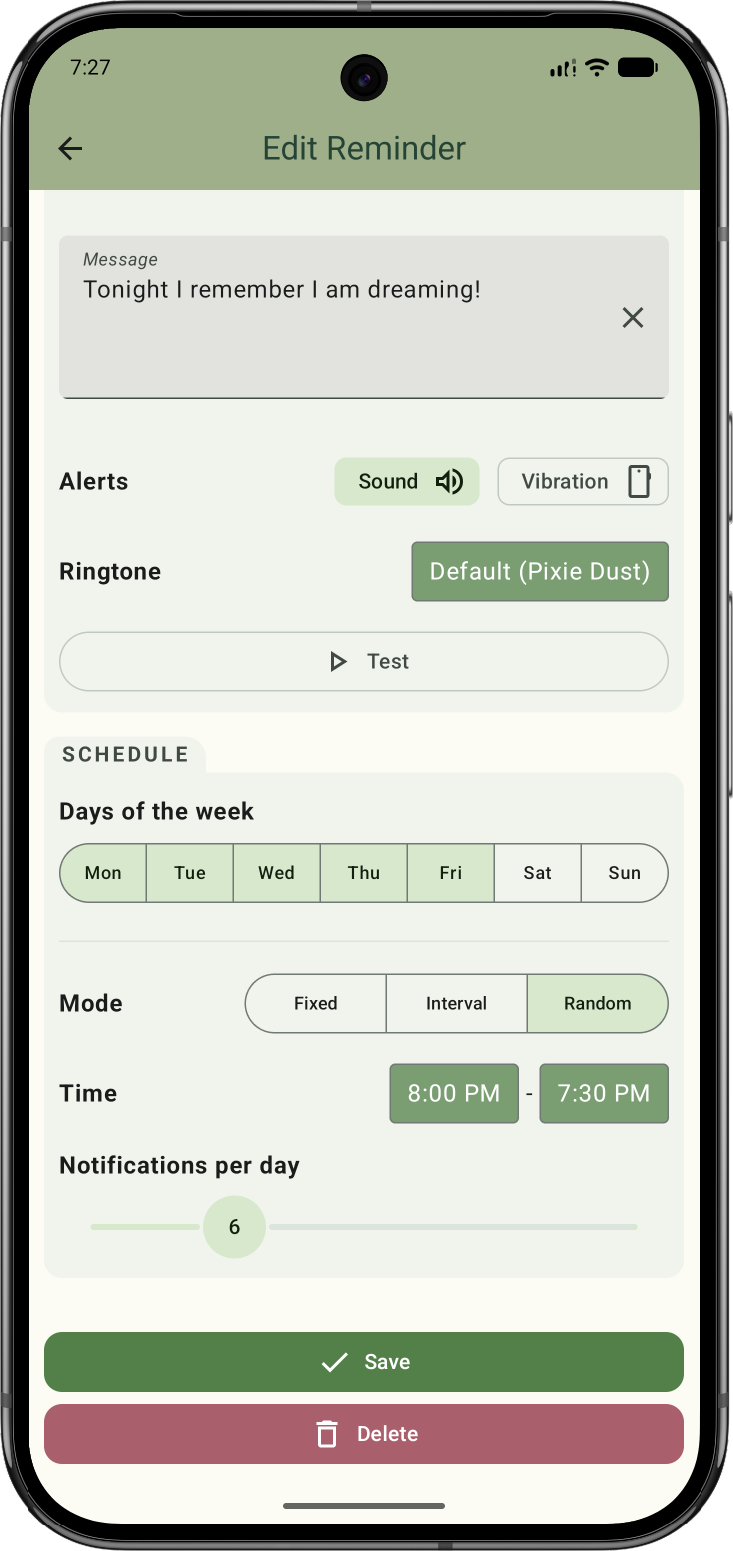
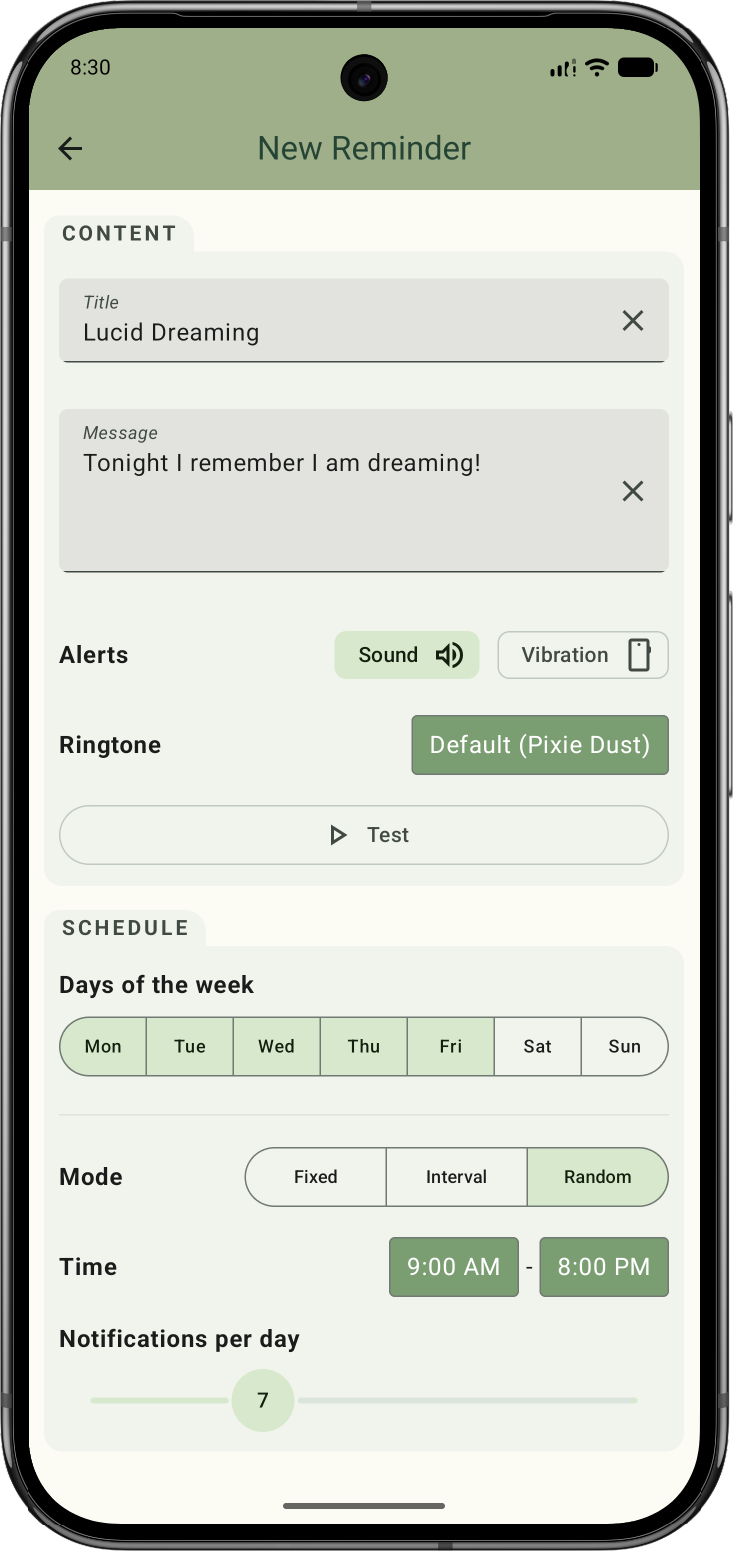
feat: add Dark Theme (#19)
* Add a dark theme
* Update fastlane screenshots
* Bump version to 1.4.0

diff --git a/app/src/main/java/cc/polysfaer/stochapop/ui/theme/Color.kt b/app/src/main/java/cc/polysfaer/stochapop/ui/theme/Color.kt
@@ -3,16 +3,16 @@ package cc.polysfaer.stochapop.ui.theme
 import androidx.compose.ui.graphics.Color
 
 val ForestGreenPrimary = Color(0xFF538049)
-val TerraCottaTertiary = Color(0xFFAA5F6C)
+val TerracottaTertiary = Color(0xFFAA5F6C)
 
 val ErrorRed = Color(0xFFB43D3D)
 val SpaceCrabbyRed = Color(0xFFE76145)
 
 // -------------------------------------------------------
 
-val DarkSalmon = Color(0xFFE9967A) //
-val OffWhiteUpper = Color(0xFFE8E4E4)
-val SplashScreenSand = Color(0xFFE3C9A3)
+//val DarkSalmon = Color(0xFFE9967A) //
+//val OffWhiteUpper = Color(0xFFE8E4E4)
+//val SplashScreenSand = Color(0xFFE3C9A3)
 val SplashScreenSandLight = Color(0xFFFCFCF5) // 0xFFFBFBF8
 
 // -------------------------------------------------------
@@ -27,7 +27,7 @@ val onSecondaryLight = Color(0xFFFFFFFF)
 val secondaryContainerLight = Color(0xFFD7E8CC)
 val onSecondaryContainerLight = Color(0xFF121F0E)
 
-val tertiaryLight = TerraCottaTertiary
+val tertiaryLight = TerracottaTertiary
 val onTertiaryLight = Color(0xFFFFFFFF)
 val tertiaryContainerLight = Color(0xFFFFDBD1)
 val onTertiaryContainerLight = Color(0xFF3B0900)
@@ -59,14 +59,14 @@ val surfaceContainerHighestLight = Color(0xFFE2E3DF)
 
 // ------------------------------------------------------------------------------------------------
 
-val primaryDark = Color(0xFF3CAC62)
-val onPrimaryDark = Color(0xFF00391C)
-val primaryContainerDark = Color(0xFF195238)
-val onPrimaryContainerDark = Color(0xFFB0D3BD)
+val primaryDark = Color(0xFF96D48D)
+val onPrimaryDark = Color(0xFF03390A)
+val primaryContainerDark = Color(0xFF3B6733)
+val onPrimaryContainerDark = Color(0xFFB1F1A7)
 
 val secondaryDark = Color(0xFF96B09D)
 val onSecondaryDark = Color(0xFF1B3524)
-val secondaryContainerDark = Color(0xFF384B3D)
+val secondaryContainerDark = Color(0xFF43654C)
 val onSecondaryContainerDark = Color(0xFFD2E8D5)
 
 val tertiaryDark = Color(0xFFAC6E54)
@@ -78,6 +78,7 @@ val errorDark = Color(0xFFFFB4AB)
 val onErrorDark = Color(0xFF690005)
 val errorContainerDark = Color(0xFF93000A)
 val onErrorContainerDark = Color(0xFFFFDAD6)
+
 val backgroundDark = Color(0xFF111412)
 val onBackgroundDark = Color(0xFFE2E3DF)
 val surfaceDark = Color(0xFF111412)
@@ -89,11 +90,11 @@ val outlineVariantDark = Color(0xFF404943)
 val scrimDark = Color(0xFF000000)
 val inverseSurfaceDark = Color(0xFFE2E3DF)
 val inverseOnSurfaceDark = Color(0xFF2E312E)
-val inversePrimaryDark = Color(0xFF2D4C3B)
+val inversePrimaryDark = ForestGreenPrimary
 val surfaceDimDark = Color(0xFF111412)
 val surfaceBrightDark = Color(0xFF373A37)
 val surfaceContainerLowestDark = Color(0xFF0C0F0D)
 val surfaceContainerLowDark = Color(0xFF191C1A)
 val surfaceContainerDark = Color(0xFF1D201E)
 val surfaceContainerHighDark = Color(0xFF282B28)
-val surfaceContainerHighestDark = Color(0xFF323633)
+val surfaceContainerHighestDark = Color(0xFF333633)

diff --git a/app/src/main/java/cc/polysfaer/stochapop/ui/screens/reminder/ReminderEditScreen.kt b/app/src/main/java/cc/polysfaer/stochapop/ui/screens/reminder/ReminderEditScreen.kt
@@ -1204,7 +1204,10 @@ fun alphaGreyOut(enabled: Boolean, outValue: Float = 0.25f): Float {
 
 // ------------------------------------------------------------------------------------------------
 
-@Preview(showBackground = true)
+@Preview(
+    showBackground = true,
+//    uiMode = Configuration.UI_MODE_NIGHT_YES
+)
 @Composable
 fun EditScreenPreview() {
     StochaPopTheme {

diff --git a/app/src/main/java/cc/polysfaer/stochapop/ui/theme/Theme.kt b/app/src/main/java/cc/polysfaer/stochapop/ui/theme/Theme.kt
@@ -11,7 +11,7 @@ import androidx.compose.runtime.Composable
 import androidx.compose.ui.platform.LocalContext
 import cc.polysfaer.stochapop.ui.AppTypography
 
-const val ENABLE_DARK_MODE = false
+const val ENABLE_DARK_MODE = true
 
 private val lightScheme = lightColorScheme(
     primary = primaryLight,

diff --git a/README.md b/README.md
@@ -19,7 +19,8 @@ _Stochastic Reminder_ is an Android application to schedule weekly fixed and ran
 - Availables with custom sound, vibration, both or none,
 - Exact alarm for non silent notifications,
 - Battery preserving scheduling on silent notifications,
-- Supported languages: Français 🇫🇷, Italiano 🇮🇹, Español 🇪🇸 und Deutsch 🇩🇪.
+- Light and Dark Theme,
+- Supported languages: Français, Italiano, Español, Deutsch, English and 简化字.
 
 ## Preview
 
